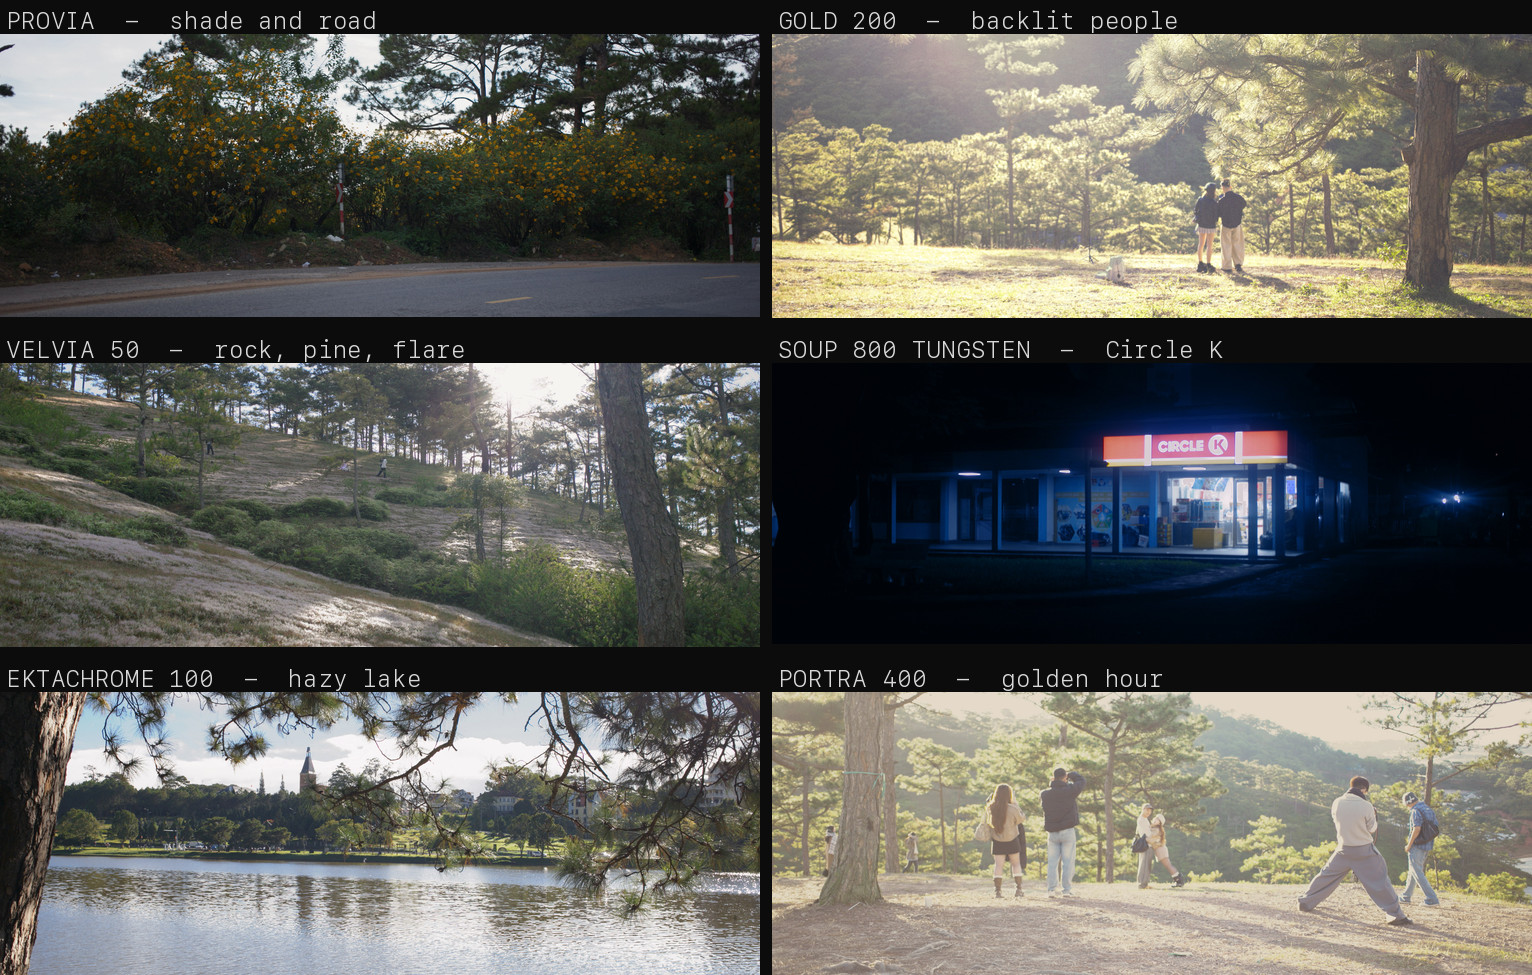
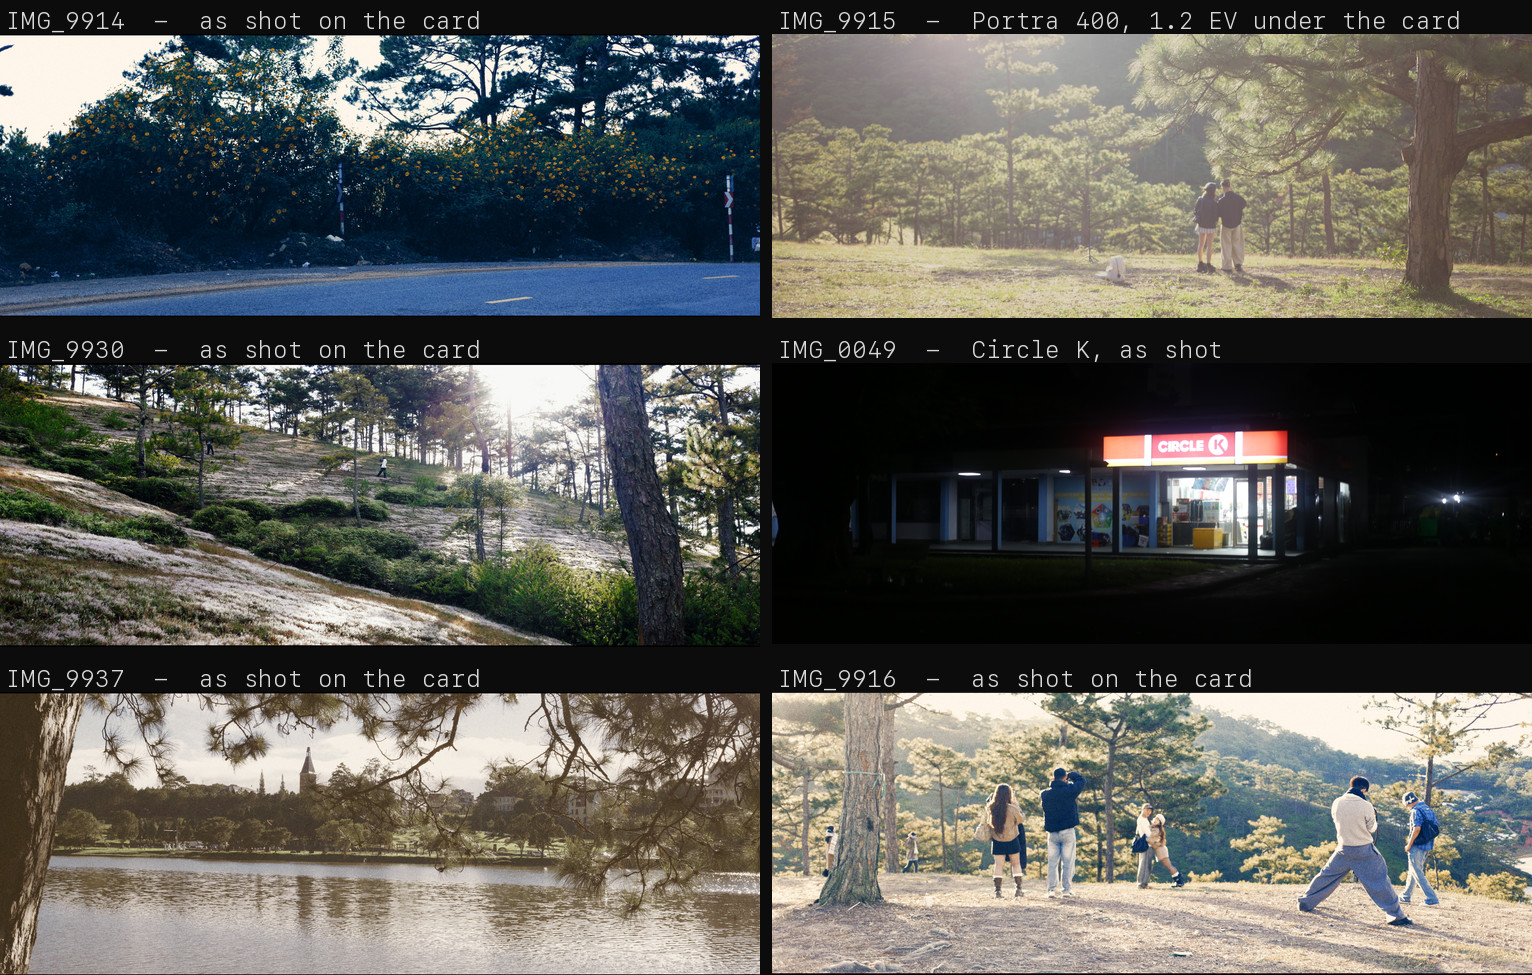
README: the card's own files, not my re-develops
The sheet had been showing my interpretation of each frame instead of the
photograph the camera produced: 9916 needed 2.4 EV of lift to match Canon's
render and came out over-processed, 9915 landed brighter than the file on the
card, and 9930/9914 were replaced with a stock's idea of the scene.

Five cells are now the camera's JPEGs, cropped to the 65:24 window and resized,
with no second develop and no colour work -- verified by measuring them: 9914
luma 73 (card 73), 9930 99 (99), 0049 22 (22), 9937 135 (135), 9916 161 (161).

9915 is the one exception and says so on the sheet: the card file is blown --
mean luma 180 with the haze at 238 -- so that cell is the same frame developed at
1.2 EV under Canon's rendering (Portra 400), which measures 141 and clips
nothing.

The hero is the camera's own JPEG of 9916 for the same reason. tools/make_promo.py
takes stock None to mean "the card's file"; a stock name still renders a develop.

diff --git a/magiclantern/modules/film_sim/tools/make_roll.py b/magiclantern/modules/film_sim/tools/make_roll.py
@@ -44,20 +44,32 @@ COLS = 2
 BG = (12, 12, 12)
 INK = (216, 216, 216)
 
-# Each pairing is the stock that scene would actually have been shot on. The
-# first pass got this wrong in a way worth recording: Classic Chrome was put on
-# the road under dense pines, and Classic Chrome is *selective* -- it drains
-# greens and yellows and keeps only reds, so a green forest comes out almost
-# monochrome (measured 17.9% saturation). The recipe was right; the pairing was
-# not. 400H on the golden-hour lookout did the same thing from the other side:
-# 400H is pastel by design (9.7%). Both were replaced.
+# No re-development here.
+#
+# These cells are the camera's own JPEGs, copied from the card and cropped to
+# the 65:24 window the camera burned in -- not re-rendered on this machine. The
+# raw-develop renders that were here before were the wrong thing to show: 9916
+# needed 2.4 EV of lift to match Canon's render and came out over-processed,
+# 9915 landed brighter than the file the camera wrote, and 9930/9914 were being
+# replaced with a stock's idea of a scene instead of the photograph the camera
+# actually produced. "Is the colour right" has an unambiguous answer when the
+# pixels are the card's: they are the card's.
+#
+# A stock render is still one flag away -- give a frame a stock name instead of
+# None below -- but the sheet as shipped shows what the camera made.
+# (frame, stock or None for the card's JPEG, label, EV offset from the
+# exposure that matches Canon's own render)
 STOCKS = [
-    ("IMG_9914", "provia", "PROVIA  -  shade and road"),
-    ("IMG_9915", "gold", "GOLD 200  -  backlit people"),
-    ("IMG_9930", "velvia", "VELVIA 50  -  rock, pine, flare"),
-    ("IMG_0049", "soup800", "SOUP 800 TUNGSTEN  -  Circle K"),
-    ("IMG_9937", "e100", "EKTACHROME 100  -  hazy lake"),
-    ("IMG_9916", "portra", "PORTRA 400  -  golden hour"),
+    ("IMG_9914", None, "IMG_9914  -  as shot on the card", 0.0),
+    # 9915 is blown on the card -- the camera's own JPEG measures mean luma 180
+    # with the haze sitting at 238, so this is the one cell that is a develop
+    # rather than the file, pulled 1.2 EV under Canon's rendering to bring the
+    # haze back into the print.
+    ("IMG_9915", "portra", "IMG_9915  -  Portra 400, 1.2 EV under the card", -1.2),
+    ("IMG_9930", None, "IMG_9930  -  as shot on the card", 0.0),
+    ("IMG_0049", None, "IMG_0049  -  Circle K, as shot", 0.0),
+    ("IMG_9937", None, "IMG_9937  -  as shot on the card", 0.0),
+    ("IMG_9916", None, "IMG_9916  -  as shot on the card", 0.0),
 ]
 
 FONTS = ["/System/Library/Fonts/SFNSMono.ttf",
@@ -169,7 +181,23 @@ def framed(im, win):
     return im.crop((0, y0, im.width, y0 + want))
 
 
-def cell(card, frame, stock):
+def cell(card, frame, stock, ev_delta=0.0):
+    """The camera's own JPEG if no stock is given, else a raw develop; either
+    way cropped to the 65:24 window the camera framed."""
+    jpg = find(card, frame, ".JPG")
+    win = window(jpg)
+    if stock is None:
+        im = framed(Image.open(jpg).convert("RGB"), win)
+        ref = im
+        ref_clip = clipped(ref)
+        print("  %-10s card JPEG  luma %.0f  clip %.2f%%"
+              % (frame, mean_luma(im), ref_clip))
+        return im.resize((CELL_W, round(im.height * CELL_W / im.width)),
+                         Image.LANCZOS)
+    return _develop_cell(card, frame, stock, jpg, win, ev_delta)
+
+
+def _develop_cell(card, frame, stock, jpg, win, ev_delta):
     """Render, expose to match Canon's own JPEG of the frame, crop to 65:24.
 
     Both are measured on the cropped rectangle. The first version compared the
@@ -178,9 +206,6 @@ def cell(card, frame, stock):
     reference did not, and the exposure was fitted to the wrong number.
     """
     cr2 = find(card, frame, ".CR2")
-    jpg = find(card, frame, ".JPG")
-    win = window(jpg)
-
     ref = framed(Image.open(jpg).convert("RGB"), win)
     target, ref_clip = mean_luma(ref), clipped(ref)
 
@@ -190,6 +215,7 @@ def cell(card, frame, stock):
     ev, im = 0.0, lo
     if l1 > l0 + 1:
         ev = max(EV_MIN, min(EV_MAX, (target - l0) * EXPOSURE_EV / (l1 - l0)))
+        ev = max(EV_MIN, min(EV_MAX, ev + ev_delta))
         im = framed(develop(cr2, stock, ev, "evfit"), win)
 
     # If the develop clips where Canon's rendering did not, back off: a promo
@@ -228,8 +254,8 @@ def main():
     card = sys.argv[1] if len(sys.argv) > 1 else "/Volumes/EOS_DIGITAL/DCIM"
     cells = []
     print("colour of each cell:")
-    for frame, stock, label in STOCKS:
-        im = cell(card, frame, stock)
+    for frame, stock, label, ev_delta in STOCKS:
+        im = cell(card, frame, stock, ev_delta)
         colour(im, frame)
         cells.append((im, label))
 

diff --git a/magiclantern/modules/film_sim/tools/make_promo.py b/magiclantern/modules/film_sim/tools/make_promo.py
@@ -38,7 +38,12 @@ OUT = os.path.abspath(os.path.join(HERE, "..", "..", "..", "..", "docs", "img"))
 # only frame on the card with a decisive moment, light, depth and subjects that
 # survive a 1600 px reduction -- and it is 65:24, so the module's framing claim
 # survives with it.
-HERO = ("IMG_9916", "portra", "Portra 400")
+#
+# Stock None = the camera's own JPEG, not a develop. This frame needs 2.4 EV of
+# lift to match Canon's rendering as a raw develop, and the result read as
+# over-processed next to the file the camera wrote; the hero shows the camera's
+# own output, cropped to the window it framed.
+HERO = ("IMG_9916", None, "as shot")
 # The strip is the same frame, so "same frame, three stocks" is literally true:
 # sky, foliage and ground all shift differently under each recipe.
 COMPARE = ("IMG_9916", [("classicchrome", "Classic Chrome"),
@@ -117,7 +122,14 @@ def main():
     card = sys.argv[1] if len(sys.argv) > 1 else "/Volumes/EOS_DIGITAL/DCIM/100CANON"
     os.makedirs(OUT, exist_ok=True)
 
-    hero = framed(card, HERO[0], HERO[1], HERO_W)
+    if HERO[1] is None:
+        im = Image.open(os.path.join(card, HERO[0] + ".JPG")).convert("RGB")
+        y0, y1 = window(os.path.join(card, HERO[0] + ".JPG"))
+        im = im.crop((0, y0, im.width, y1))
+        hero = im.resize((HERO_W, round(im.height * HERO_W / im.width)),
+                         Image.LANCZOS)
+    else:
+        hero = framed(card, HERO[0], HERO[1], HERO_W)
     hero_path = os.path.join(OUT, "promo.jpg")
     hero.save(hero_path, quality=90, subsampling=0, optimize=True)
     print("promo.jpg  %-9s %-12s %dx%d  %4.0f KB"

diff --git a/README.md b/README.md
@@ -1,11 +1,11 @@
 # XPan Digital — Canon EOS 6D
 
-![A group on a lookout terrace at golden hour, 65:24, developed from the raw
-with the Portra 400 recipe](docs/img/promo.jpg)
+![A group on a lookout terrace at golden hour, 65:24, straight off the
+camera](docs/img/promo.jpg)
 
-One frame, one camera, one recipe: the 6D's raw, decoded and graded by this
-module's engine, cropped to the 65:24 window the camera framed. Đà Lạt,
-2 November 2026.
+One frame, one camera, one file: the camera's own JPEG, cropped to the 65:24
+window it framed and resized — nothing developed again, nothing graded here.
+Đà Lạt, 2 November 2026.
 
 ![The same frame through Classic Chrome, Portra 400 and Velvia 50](docs/img/looks.jpg)
 
@@ -118,13 +118,13 @@ animations are the camera's own springs, stepped frame by frame.
 
 ![Six frames, each on the stock that suits it](docs/img/roll.jpg)
 
-*Six frames, each on the stock it would actually have been shot on: **Provia**
-for a road under deep pines, **Gold 200** for two people standing in backlight,
-**Velvia 50** for rock and flare, **Soup 800** (Vision3 500T) for a Circle K at
-night, **Ektachrome 100** for a hazy lake, **Portra 400** for golden hour. Every
-cell is a level-3 raw develop from the camera's own file, cropped to 65:24, and
-exposed to match Canon's own JPEG of the same frame — mean luma within a
-point, no cell clipping where Canon's did not.*
+*Six frames off the card, unmodified: a road under deep pines, two people in
+backlight, rock and pine in flare, a Circle K at night, a hazy lake, and the
+lookout at golden hour. Five are the camera's own JPEGs, cropped to the 65:24
+window and resized — no second develop, no colour work. The one exception is
+labelled on the sheet: **9915** on the card is blown (mean luma 180, the haze at
+238), so that cell is the same frame re-developed 1.2 EV under Canon's own
+rendering to bring the haze back into the print.*
 
 `Aspect ▸ 65:24 XPan` frames the panel at 2.708:1 and Develop writes a real
 5472×2020 JPEG — the rows outside the window are never encoded, so the file is
